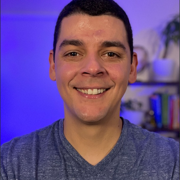
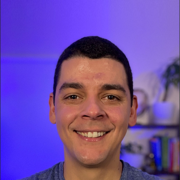
feat(portfolio): expand headshot headroom and reorder featured projects

diff --git a/apps/portfolio/lib/data.ts b/apps/portfolio/lib/data.ts
@@ -212,38 +212,6 @@ export const experienceData: ExperienceItem[] = [
 
 export const projectsData: Project[] = [
 	{
-		title: 'Texas Tint Plus',
-		category: 'apps',
-		href: 'https://texastint.com',
-		githubUrl: 'https://github.com/jeffreyehogg/texas-tint',
-		description:
-			'Commercial and residential window film platform for a Houston-area business, featuring an interactive quote estimator and service catalog.',
-		imageUrl: '/images/projects/texas-tint.png',
-		tags: ['Next.js', 'React', 'TypeScript', 'Tailwind CSS'],
-		featured: true,
-	},
-	{
-		title: 'Vision Integrated Systems',
-		category: 'apps',
-		href: 'https://vision-texas.com/',
-		description:
-			'Corporate website for a commercial security and audio-visual provider, designed for fast load times and clean presentation across all devices.',
-		imageUrl: '/images/projects/vision.png',
-		tags: ['Next.js', 'React', 'Tailwind CSS', 'Framer Motion'],
-		featured: true,
-	},
-	{
-		title: 'Hogg Homes',
-		category: 'apps',
-		href: 'https://homes.jeffhogg.com',
-		githubUrl: 'https://github.com/jeffreyehogg/portfolio/tree/main/apps/hogg-homes',
-		description:
-			'Modern real estate platform for homebuilders, featuring searchable communities, interactive architectural elevations, and tour scheduling.',
-		imageUrl: '/images/projects/hogg-homes.png',
-		tags: ['Next.js', 'React', 'Tailwind CSS', 'Framer Motion'],
-		featured: true,
-	},
-	{
 		title: 'AutoDBA',
 		category: 'tools',
 		href: 'https://autodba.jeffhogg.com',
@@ -255,17 +223,6 @@ export const projectsData: Project[] = [
 		featured: true,
 	},
 	{
-		title: 'Legacy Link',
-		category: 'tools',
-		href: 'https://legacy-link.jeffhogg.com',
-		githubUrl: 'https://github.com/jeffreyehogg/portfolio/tree/main/apps/legacy-link',
-		description:
-			'Data migration tool for building security systems, allowing teams to map, clean, and transfer badge and access records in minutes.',
-		imageUrl: '/images/projects/legacy-link.png',
-		tags: ['Next.js', 'TypeScript', 'PostgreSQL', 'Clerk'],
-		featured: false,
-	},
-	{
 		title: 'Kingdom Connect',
 		category: 'apps',
 		href: 'https://kingdom.jeffhogg.com',
@@ -274,7 +231,18 @@ export const projectsData: Project[] = [
 			'Community engagement platform featuring a volunteer signup board, transparent mission funding, and a shared community prayer wall.',
 		imageUrl: '/images/projects/kingdom-connect.png',
 		tags: ['Next.js', 'React', 'PostgreSQL', 'Tailwind CSS'],
-		featured: false,
+		featured: true,
+	},
+	{
+		title: 'Legacy Link',
+		category: 'tools',
+		href: 'https://legacy-link.jeffhogg.com',
+		githubUrl: 'https://github.com/jeffreyehogg/portfolio/tree/main/apps/legacy-link',
+		description:
+			'Data migration tool for building security systems, allowing teams to map, clean, and transfer badge and access records in minutes.',
+		imageUrl: '/images/projects/legacy-link.png',
+		tags: ['Next.js', 'TypeScript', 'PostgreSQL', 'Clerk'],
+		featured: true,
 	},
 	{
 		title: 'ForexFlow FX Dashboard',
@@ -285,6 +253,38 @@ export const projectsData: Project[] = [
 			'Real-time foreign exchange dashboard displaying live currency exchange rates, interactive trend charts, and market depth.',
 		imageUrl: '/images/projects/forexflow.png',
 		tags: ['Nuxt 3', 'Vue 3', 'TypeScript', 'Chart.js'],
+		featured: false,
+	},
+	{
+		title: 'Hogg Homes',
+		category: 'apps',
+		href: 'https://homes.jeffhogg.com',
+		githubUrl: 'https://github.com/jeffreyehogg/portfolio/tree/main/apps/hogg-homes',
+		description:
+			'Modern real estate platform for homebuilders, featuring searchable communities, interactive architectural elevations, and tour scheduling.',
+		imageUrl: '/images/projects/hogg-homes.png',
+		tags: ['Next.js', 'React', 'Tailwind CSS', 'Framer Motion'],
+		featured: false,
+	},
+	{
+		title: 'Texas Tint Plus',
+		category: 'apps',
+		href: 'https://texastint.com',
+		githubUrl: 'https://github.com/jeffreyehogg/texas-tint',
+		description:
+			'Commercial and residential window film platform for a Houston-area business, featuring an interactive quote estimator and service catalog.',
+		imageUrl: '/images/projects/texas-tint.png',
+		tags: ['Next.js', 'React', 'TypeScript', 'Tailwind CSS'],
+		featured: false,
+	},
+	{
+		title: 'Vision Integrated Systems',
+		category: 'apps',
+		href: 'https://vision-texas.com/',
+		description:
+			'Corporate website for a commercial security and audio-visual provider, designed for fast load times and clean presentation across all devices.',
+		imageUrl: '/images/projects/vision.png',
+		tags: ['Next.js', 'React', 'Tailwind CSS', 'Framer Motion'],
 		featured: false,
 	},
 	{
